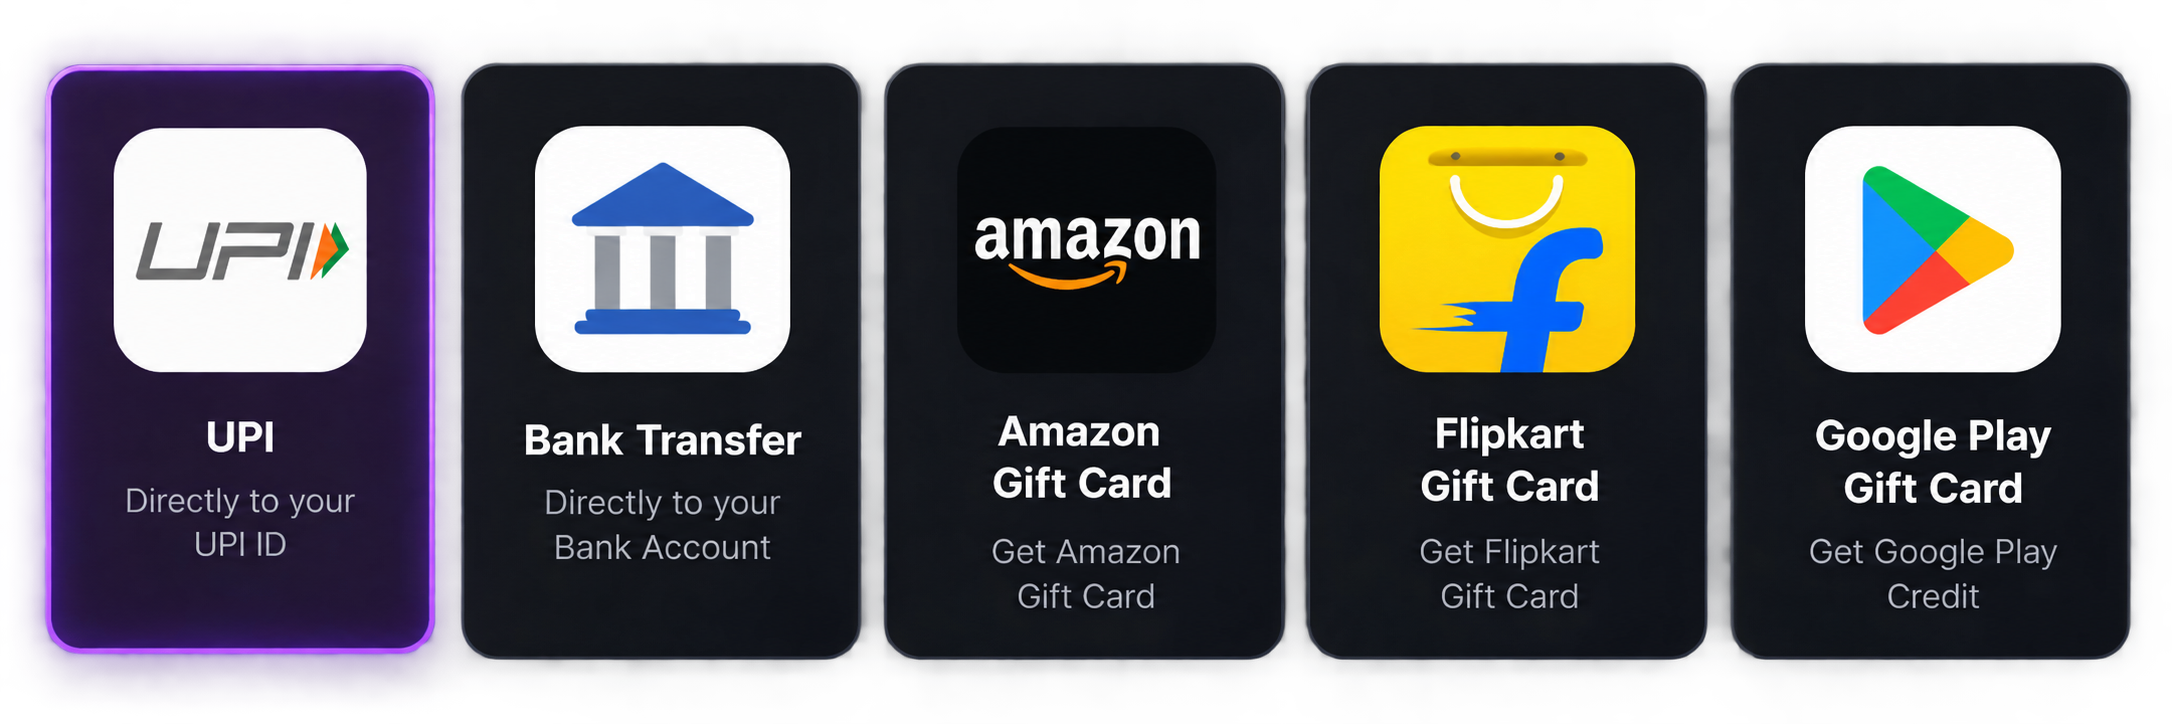
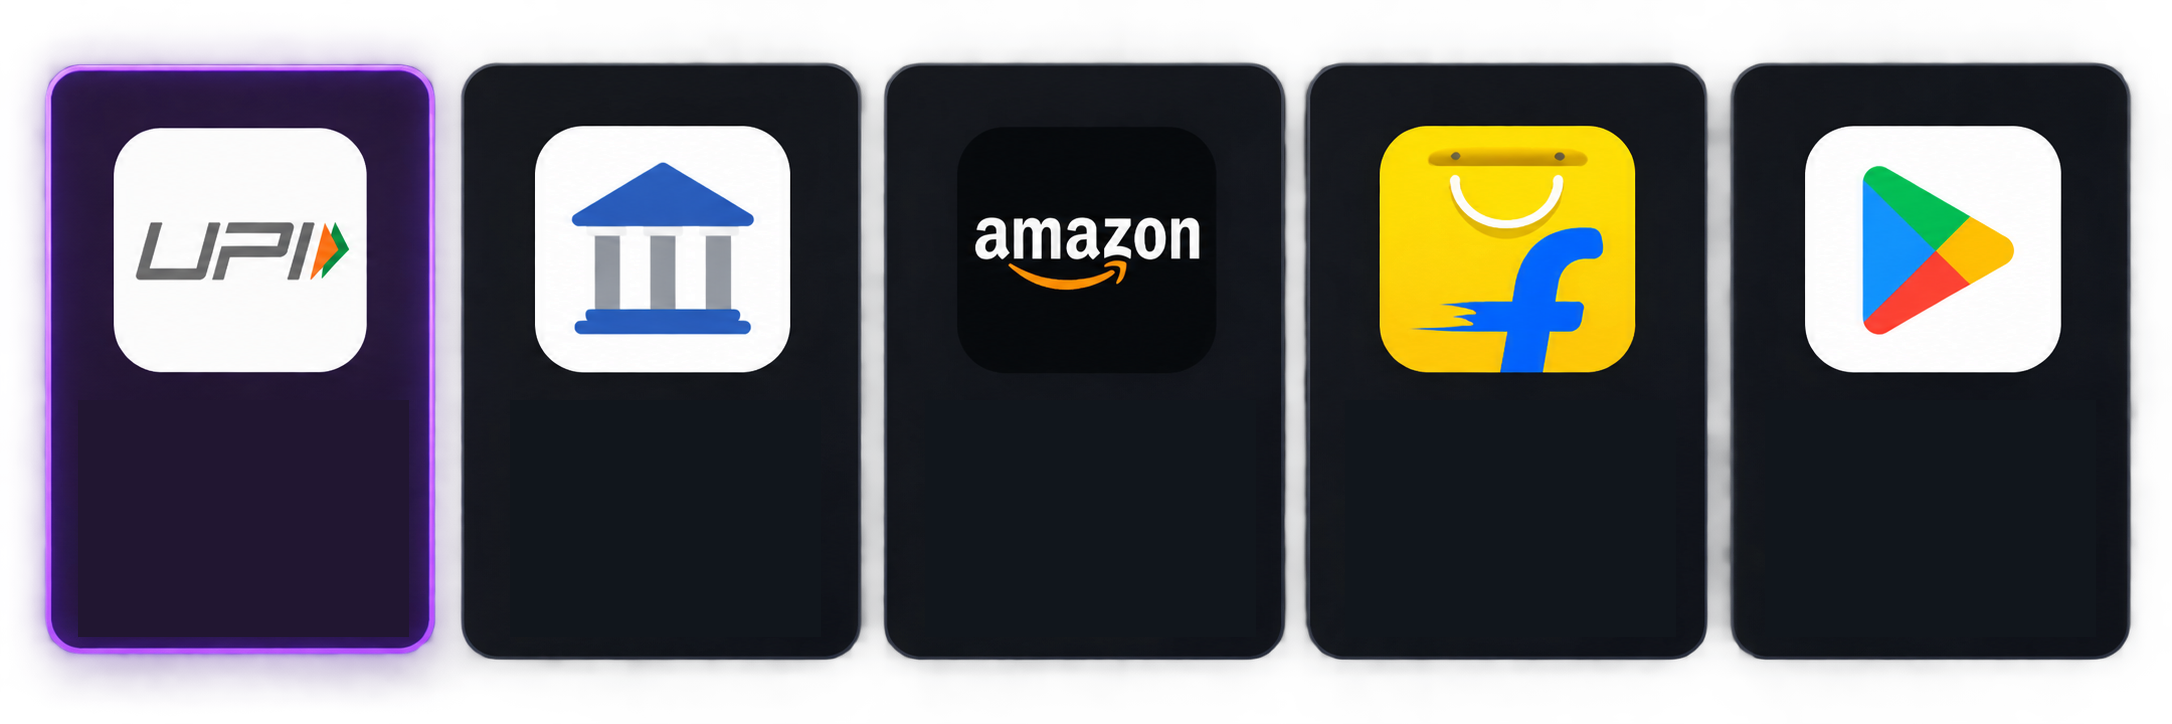
Updated image.png

diff --git a/src/pages/dashboard/WithdrawPage.tsx b/src/pages/dashboard/WithdrawPage.tsx
@@ -343,6 +343,15 @@ export function WithdrawPage() {
                           backgroundSize: '500% 100%',
                         }}
                       />
+                      <div className="min-w-0">
+                        <p className={`text-sm font-semibold ${selected ? 'text-white' : 'text-ink-50'}`}>{opt.label}</p>
+                        <p className="mt-0.5 text-xs leading-5 text-ink-400">{opt.description}</p>
+                      </div>
+                      {opt.isGiftCard && (
+                        <span className="mt-auto inline-flex items-center gap-1 rounded-full bg-accent-400/10 px-2 py-0.5 text-[10px] font-semibold uppercase tracking-wider text-accent-400">
+                          <Gift className="h-2.5 w-2.5" /> Gift Card
+                        </span>
+                      )}
                     </button>
                   );
                 })}
